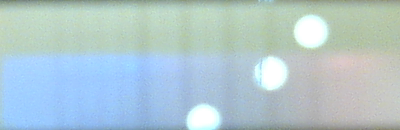
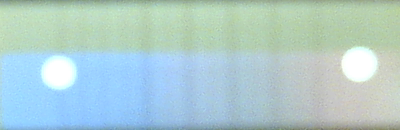
/ ‘musicbox/look.py’ / ‘musicbox/roi.png’ / ‘musicbox/save.png’ / ‘musicbox/update.png’

diff --git a/musicbox/look.py b/musicbox/look.py
@@ -39,8 +39,8 @@ def runloop():
     low = 1000
     high = 0
 
-    highest = 300.5
-    lowest = 40.6
+    highest = 361.8
+    lowest = 55
 
     current_notes = []
     
